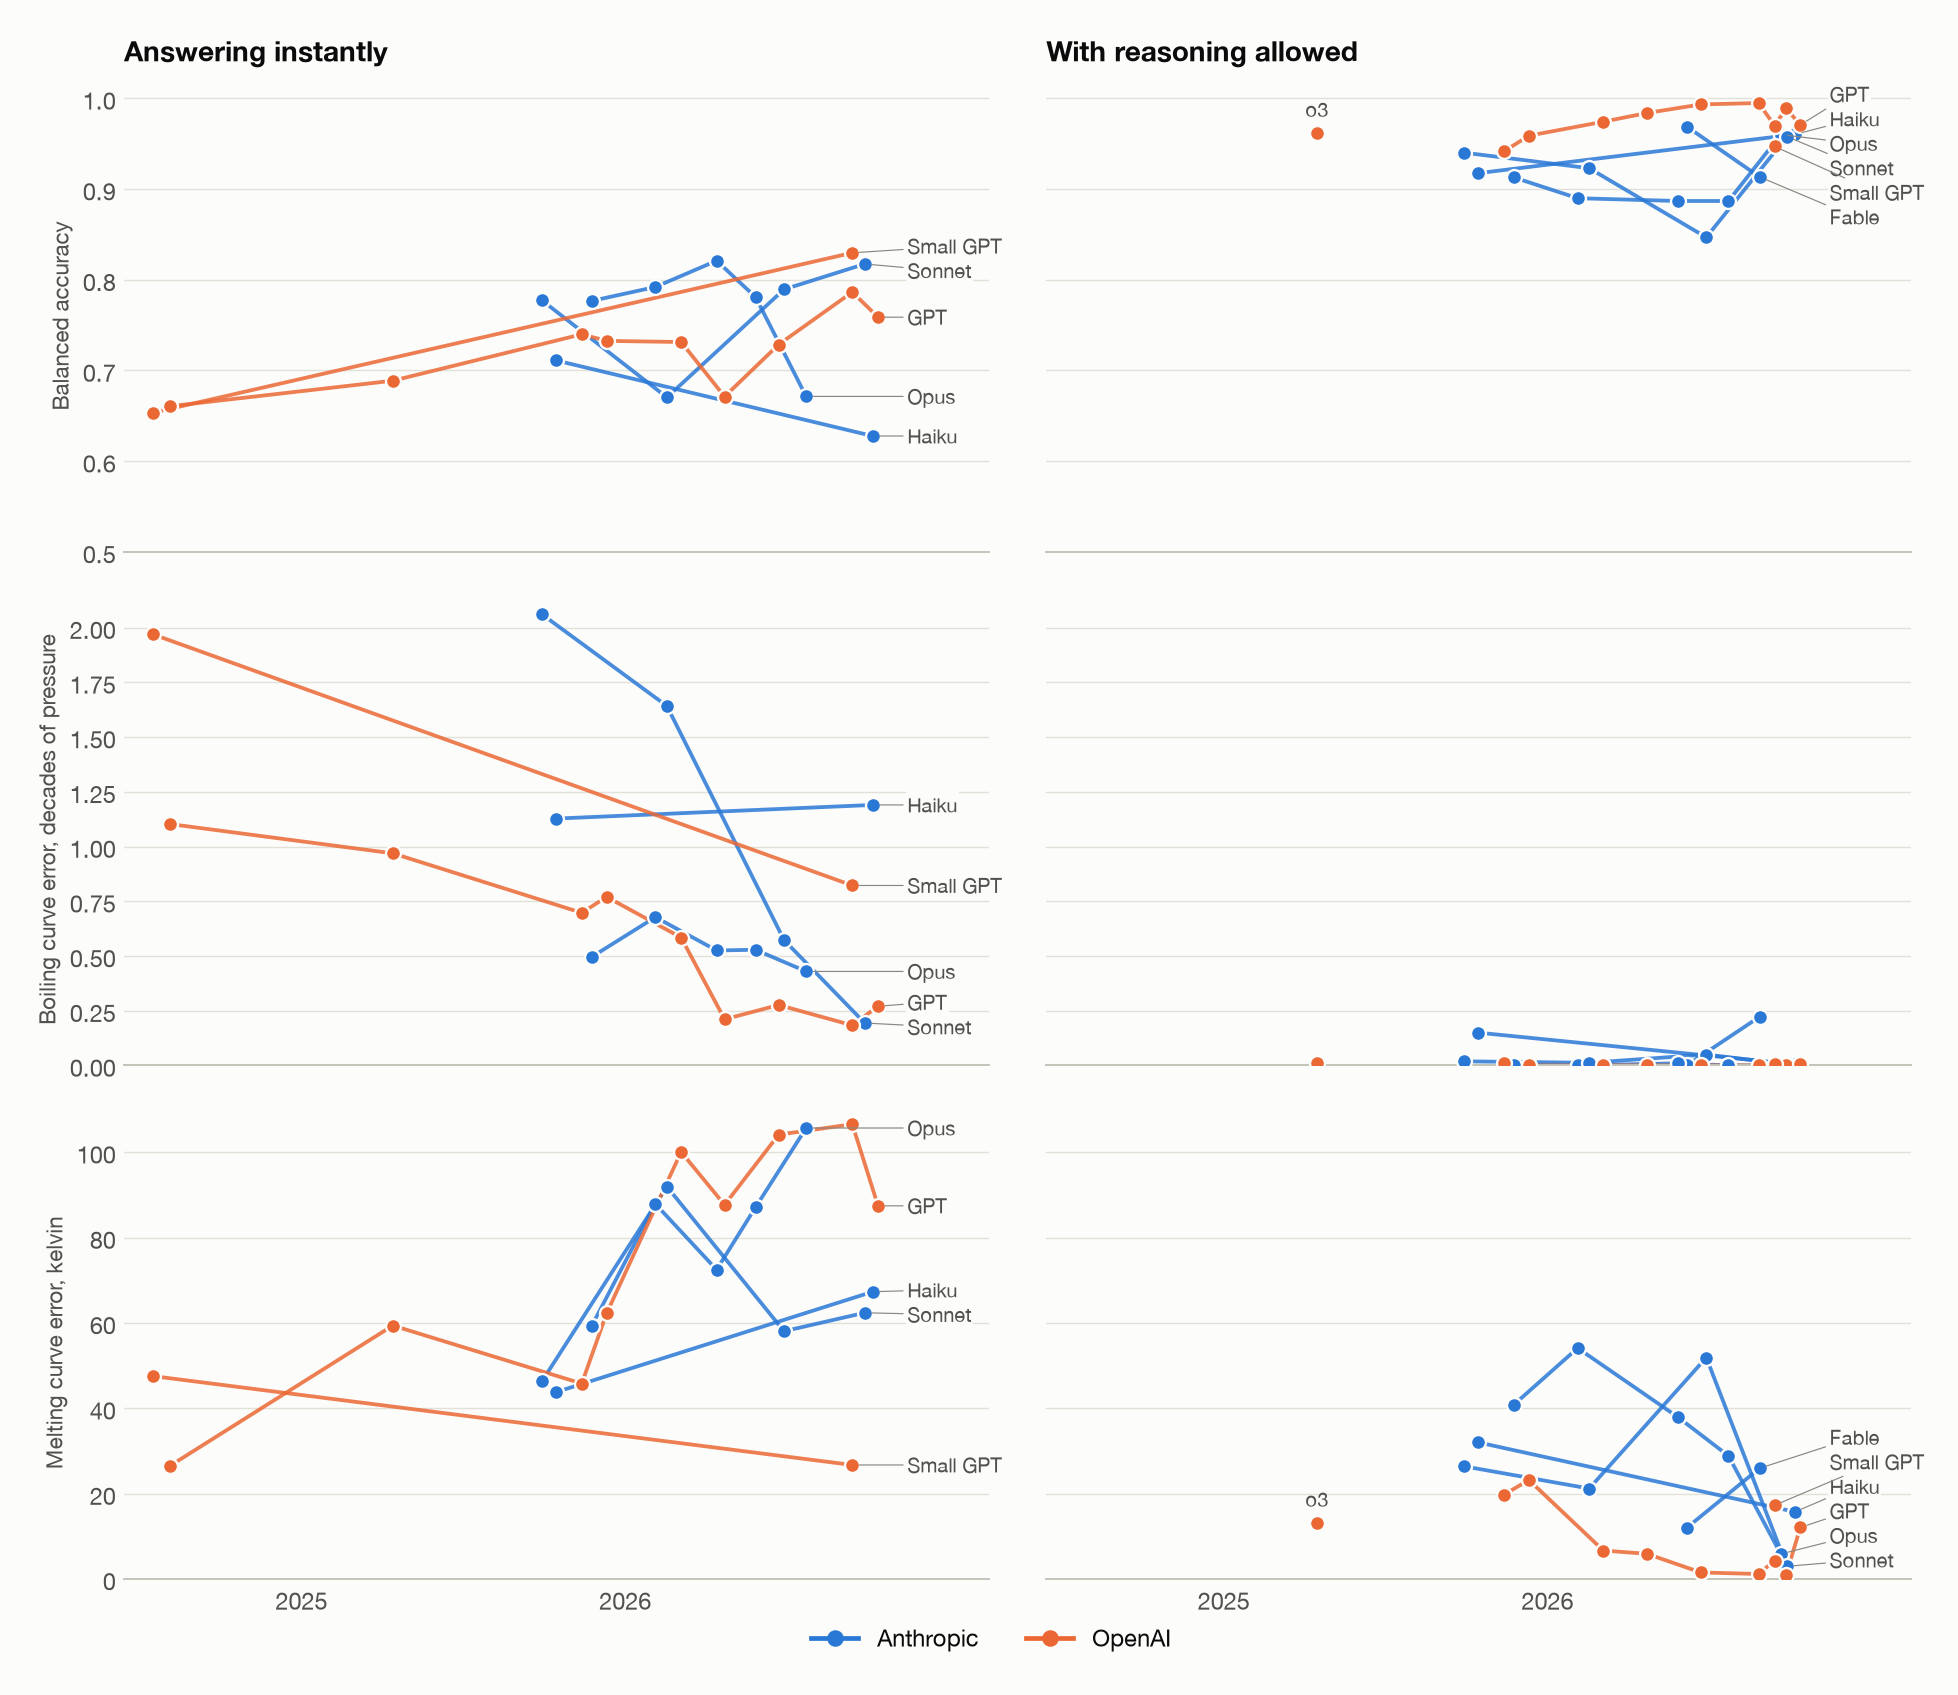
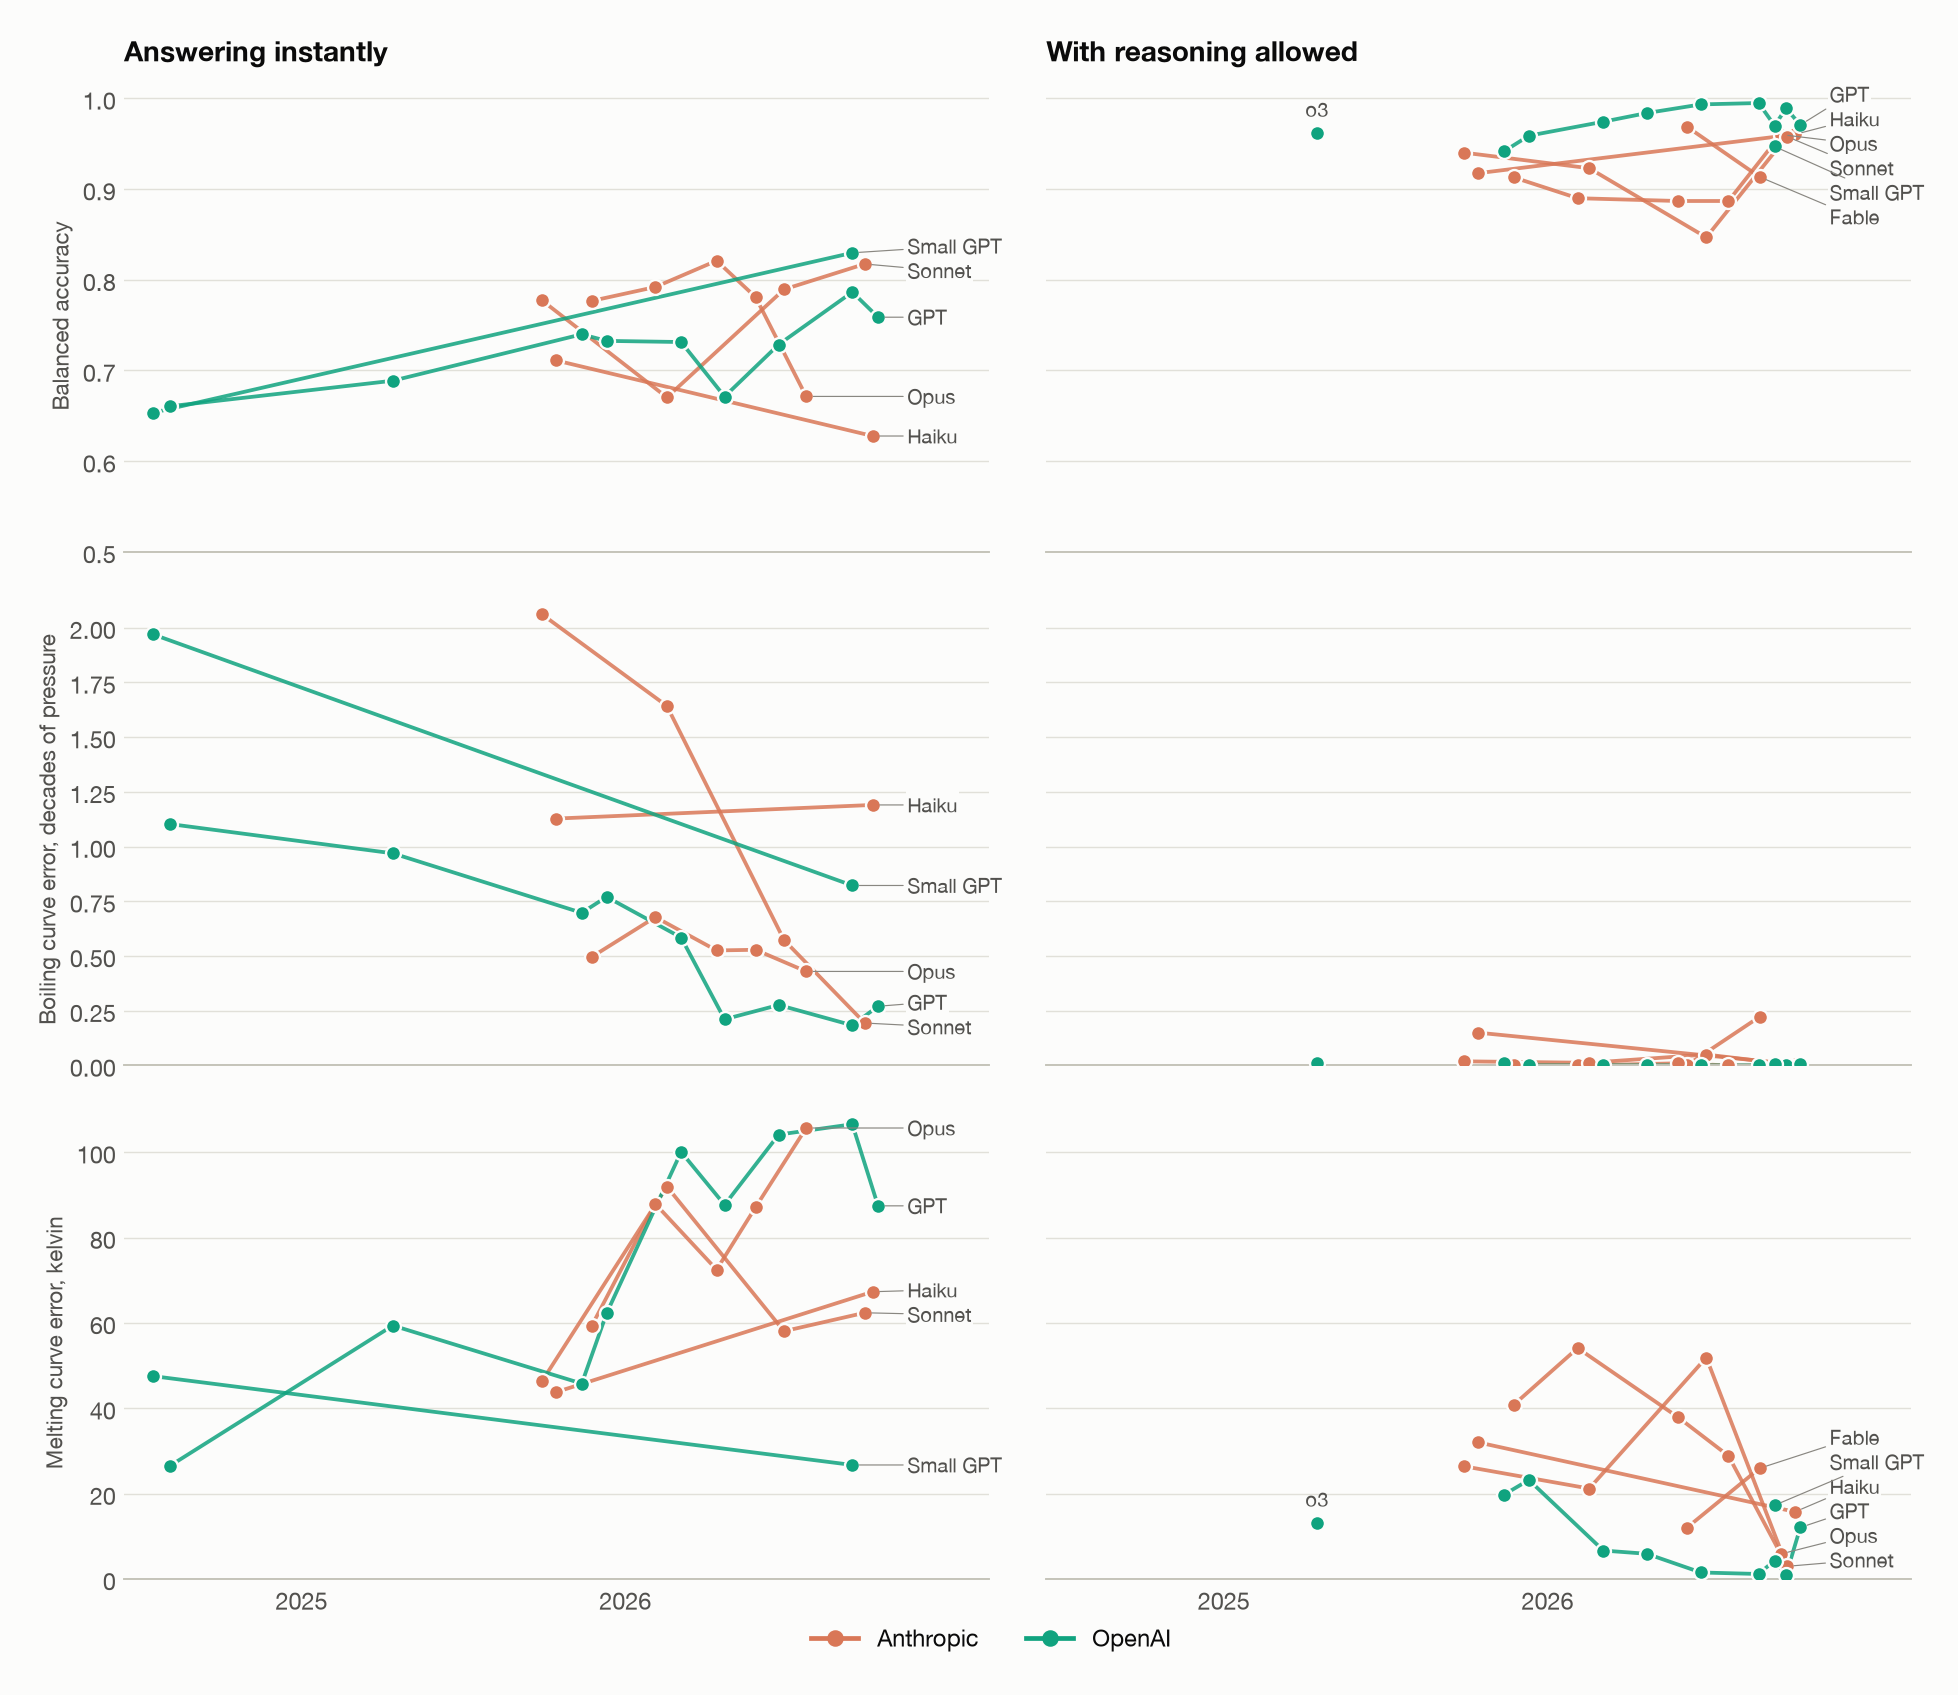
Use Anthropic orange and OpenAI green in every chart of the water post

diff --git a/_posts/blog/2026-11-03-phase-diagram.md b/_posts/blog/2026-11-03-phase-diagram.md
@@ -68,13 +68,13 @@ Haiku 5.5 gains the most, from 0.63 to 0.96, because instantly it almost never s
 
 It depends on the curve. Answering instantly, OpenAI's boiling curve moved toward the truth: the error fell from about 2 decades on GPT-4o mini to about 0.2 on GPT-5.5 and GPT-6 Sol. Their melting curve went the other way. OpenAI's three oldest models put ice 46–193 K too cold above 209 MPa, and its models from GPT-5.4 on put it 65–351 K too hot. Thirteen of the 22 instant models turn hot compressed liquid into ice below 1 GPa, where the true melting pressure is 3 to 12 GPa.
 
-![Accuracy and boundary error by release date](/imgs/2026-11-03-phase-diagram/generations.png)
+![Accuracy and boundary error by release date](/imgs/2026-11-03-phase-diagram/generations.png?v=2)
 
 Over time, balanced accuracy barely moves. Since September 2025, the period both providers cover, neither provider's instant trend is clear, and with reasoning allowed neither shows a clear gain either. Anthropic's older models are retired, so its history only goes back to September 2025, while OpenAI's goes back to July 2024.
 
 ## Changing the units changes the answer
 
-![Agreement across units against agreement on a repeat](/imgs/2026-11-03-phase-diagram/units_gap_instant.png)
+![Agreement across units against agreement on a repeat](/imgs/2026-11-03-phase-diagram/units_gap_instant.png?v=2)
 
 I asked the same points in six sets of units: kelvin or Celsius, with pascals, megapascals or atmospheres. I also asked two of them, kelvin with megapascals and Celsius with atmospheres, a second time to see how much answers move by chance. Answering instantly, all 22 models change their answers more when only the units change. Sonnet 4.6 agrees with itself on 96% of repeats but only 76% of unit changes. Opus 5 calls hot gas supercritical 85–89% of the time in kelvin and 18–22% in Celsius. With reasoning allowed, the gap is at most 0.06.
 
